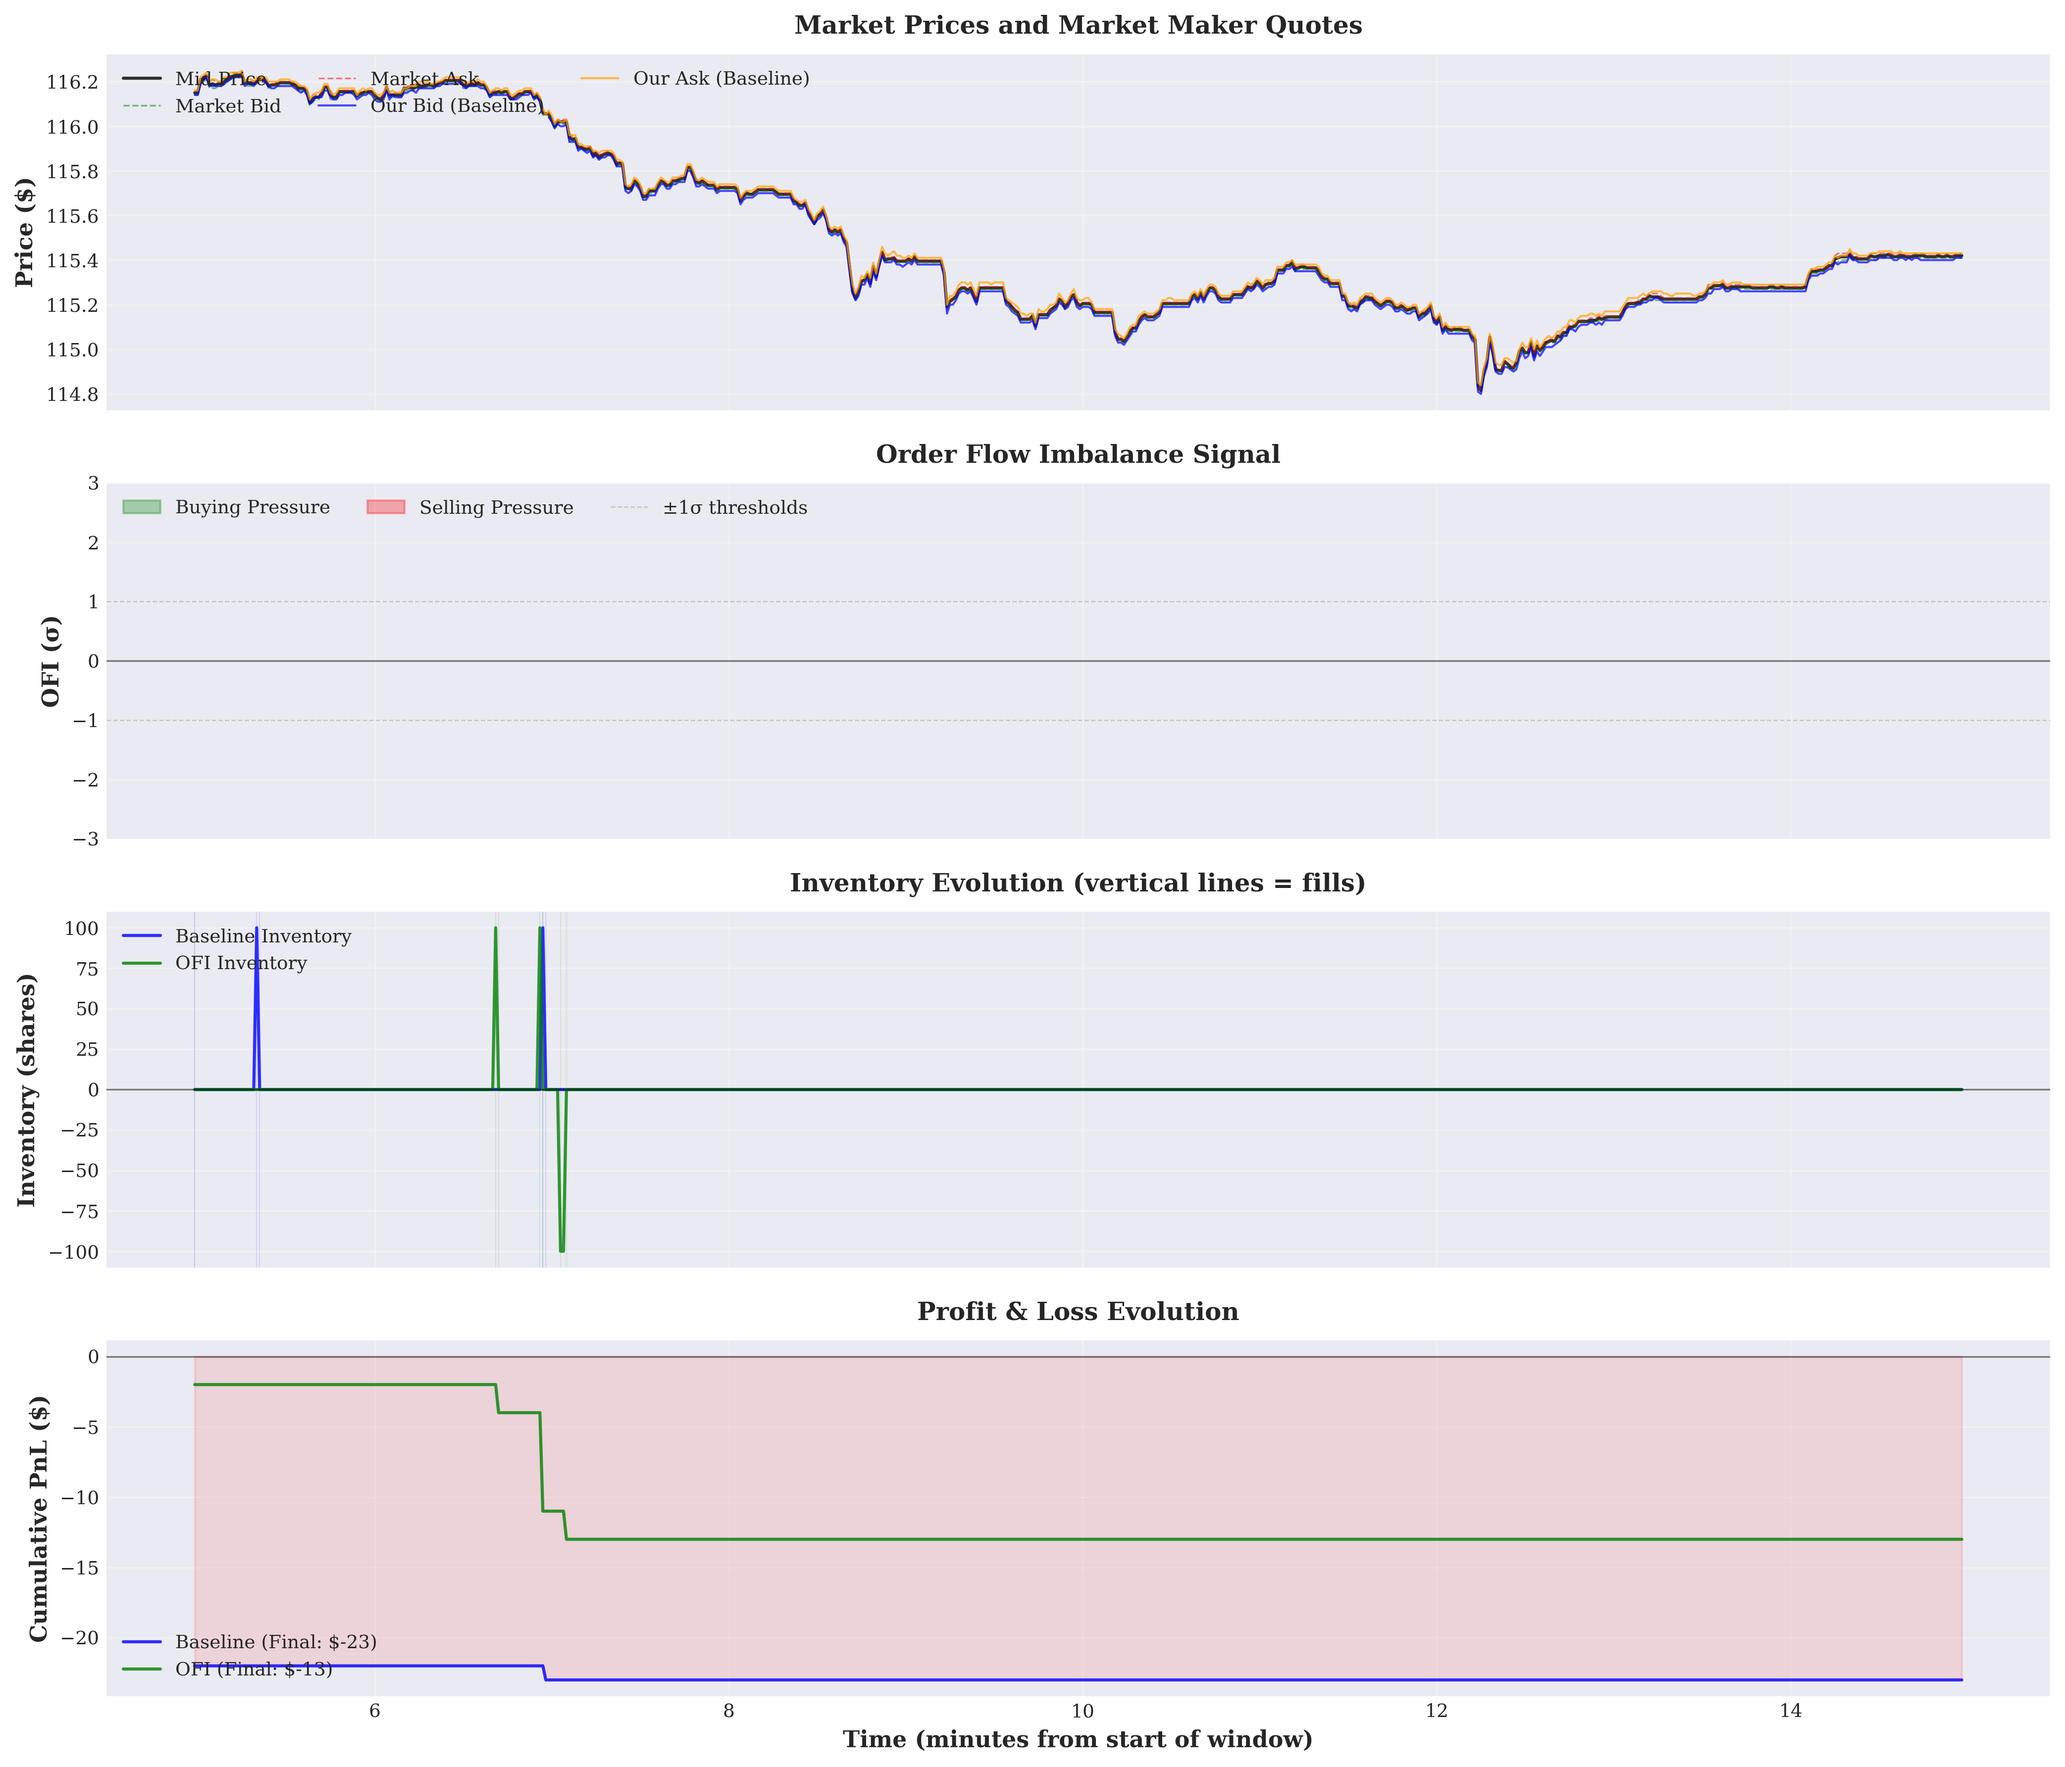
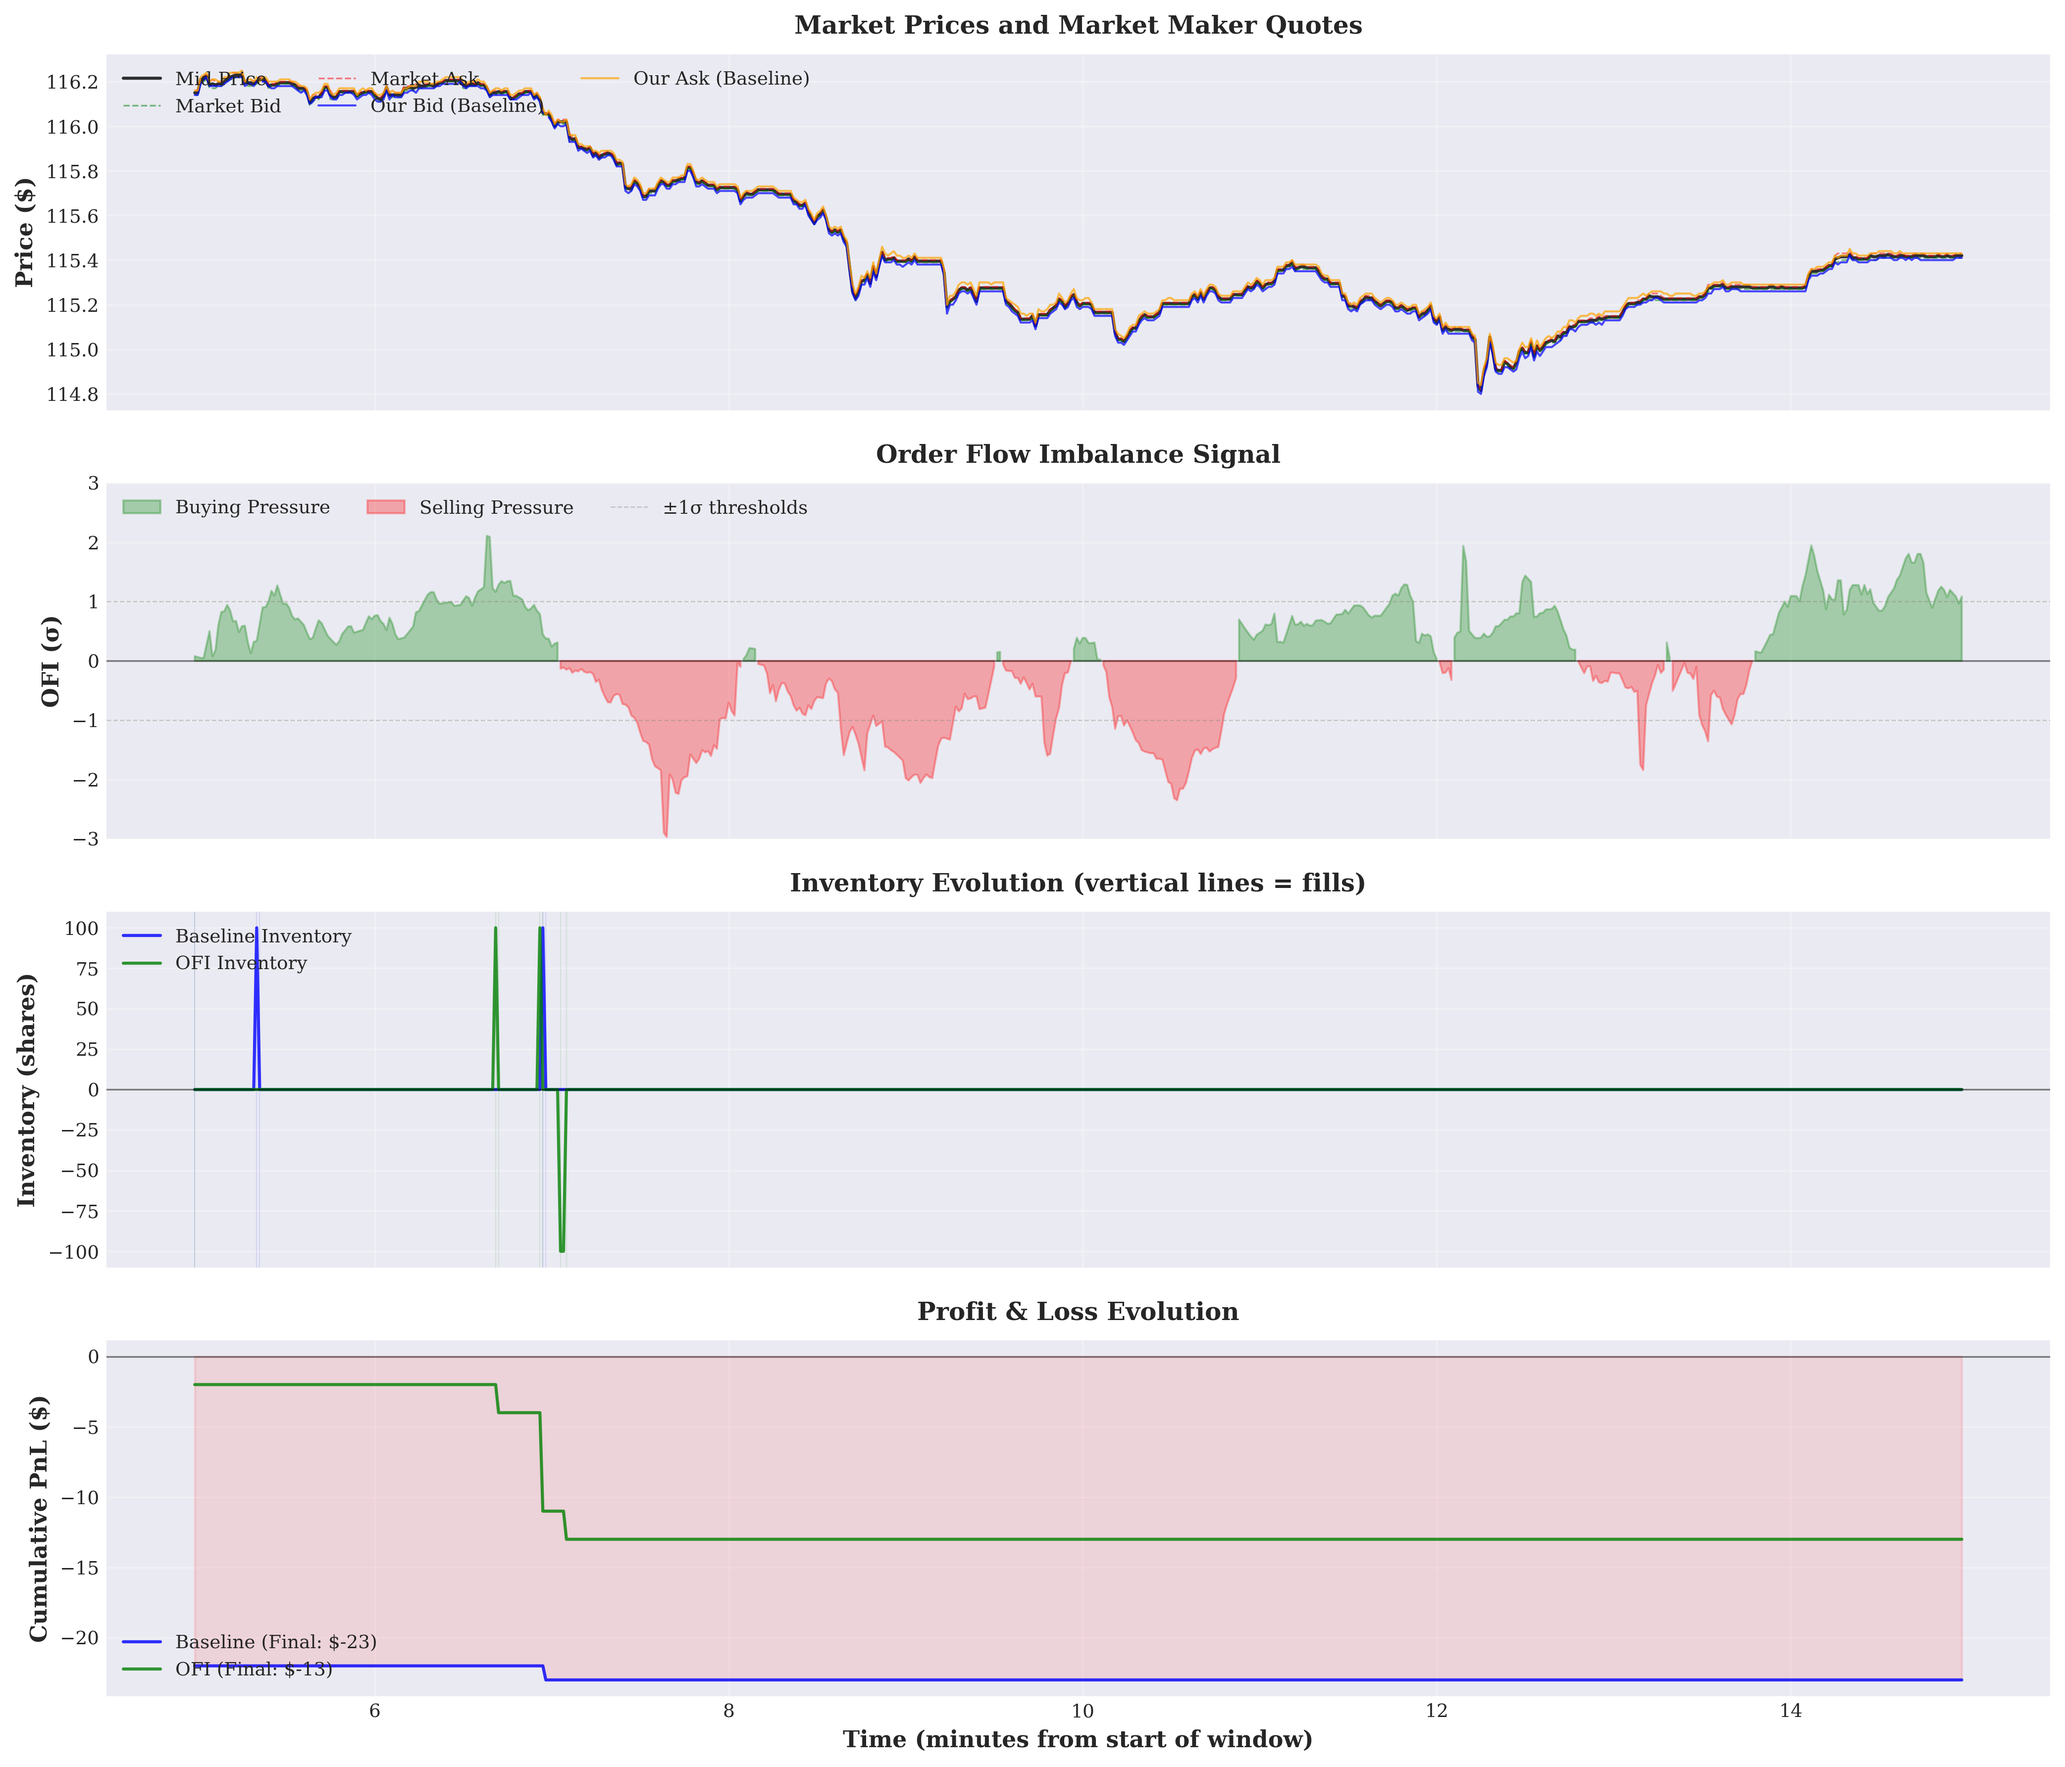
Fix timeseries OFI signal - compute from raw NBBO data

Changed region(s): [[0.2806, 0.3109, 0.9664, 0.4664], [0.0935, 0.3109, 0.2806, 0.3731]]

diff --git a/scripts/generate_supplementary_figures.py b/scripts/generate_supplementary_figures.py
@@ -46,6 +46,48 @@ def load_example_data():
             print(f"[WARN] Warning: {path} not found, will skip time series plot")
             return None
     
+    # Load raw NBBO data to compute OFI signal
+    try:
+        import pyreadr
+        import sys
+        sys.path.insert(0, str(Path.cwd() / 'src'))
+        from ofi_utils import compute_ofi_depth_mid
+        
+        nbbo_file = Path('data/NBBO/2017-01-03.rda')
+        if nbbo_file.exists():
+            result = pyreadr.read_r(str(nbbo_file))
+            df_key = list(result.keys())[0]
+            nbbo_df = result[df_key]
+            
+            # Filter to AAPL
+            aapl_nbbo = nbbo_df[nbbo_df['sym_root'] == 'AAPL'].copy()
+            aapl_nbbo = aapl_nbbo[['best_bid', 'best_ask', 'best_bidsiz', 'best_asksiz']].copy()
+            aapl_nbbo.columns = ['bid', 'ask', 'bid_sz', 'ask_sz']
+            
+            # Compute OFI
+            ofi_df = compute_ofi_depth_mid(aapl_nbbo)
+            
+            # Normalize OFI using rolling window
+            window = 60
+            ofi_rolling = ofi_df['ofi'].rolling(window=window, min_periods=10).sum()
+            depth_rolling = (ofi_df['bid_sz'] + ofi_df['ask_sz']).rolling(window=window, min_periods=10).mean()
+            ofi_normalized = ofi_rolling / (depth_rolling + 1e-6)
+            
+            # Add to both baseline and ofi dataframes (same signal, different strategies)
+            data['baseline']['ofi_signal'] = ofi_normalized.values[:len(data['baseline'])]
+            data['ofi']['ofi_signal'] = ofi_normalized.values[:len(data['ofi'])]
+            
+            print(f"[OK] Computed OFI signal: {len(ofi_normalized)} points")
+        else:
+            print(f"[WARN] NBBO file not found, will use placeholder OFI signal")
+            data['baseline']['ofi_signal'] = 0
+            data['ofi']['ofi_signal'] = 0
+            
+    except Exception as e:
+        print(f"[WARN] Could not compute OFI signal: {e}")
+        data['baseline']['ofi_signal'] = 0
+        data['ofi']['ofi_signal'] = 0
+    
     return data
 
 def plot_time_series_example(data, output_dir='figures'):
@@ -111,12 +153,15 @@ def plot_time_series_example(data, output_dir='figures'):
     
     # Panel 2: OFI Signal
     ax2 = axes[1]
-    if 'ofi_normalized' in ofi.columns:
-        ofi_signal = ofi['ofi_normalized']
-    elif 'ofi' in ofi.columns:
-        # Normalize if raw OFI
-        ofi_signal = (ofi['ofi'] - ofi['ofi'].mean()) / ofi['ofi'].std()
+    
+    # Use the computed OFI signal
+    if 'ofi_signal' in ofi.columns:
+        ofi_signal = ofi['ofi_signal']
+        # Additional normalization for better visualization
+        if ofi_signal.std() > 0:
+            ofi_signal = (ofi_signal - ofi_signal.mean()) / ofi_signal.std()
     else:
+        print("[WARN] No OFI signal found, using zeros")
         ofi_signal = pd.Series(0, index=ofi.index)
     
     # Color-code by sign
